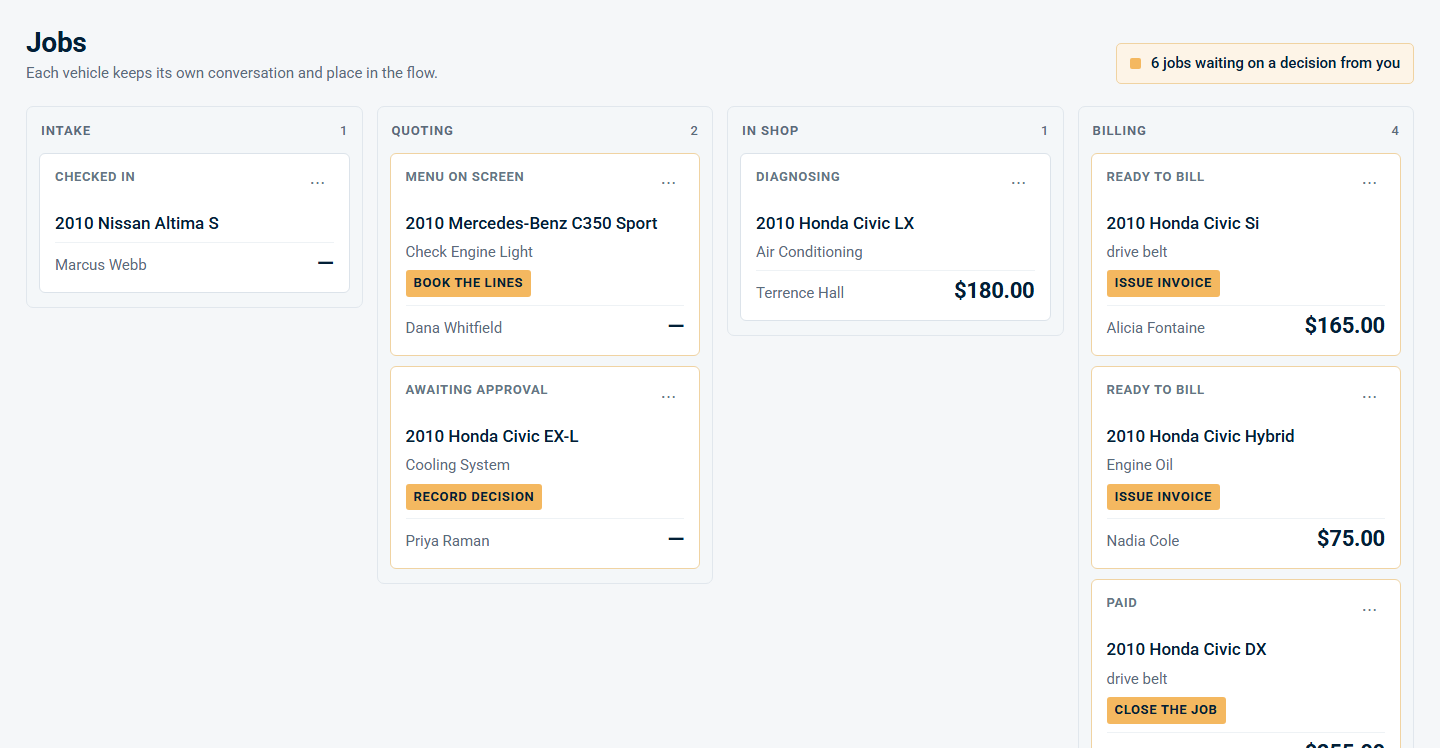
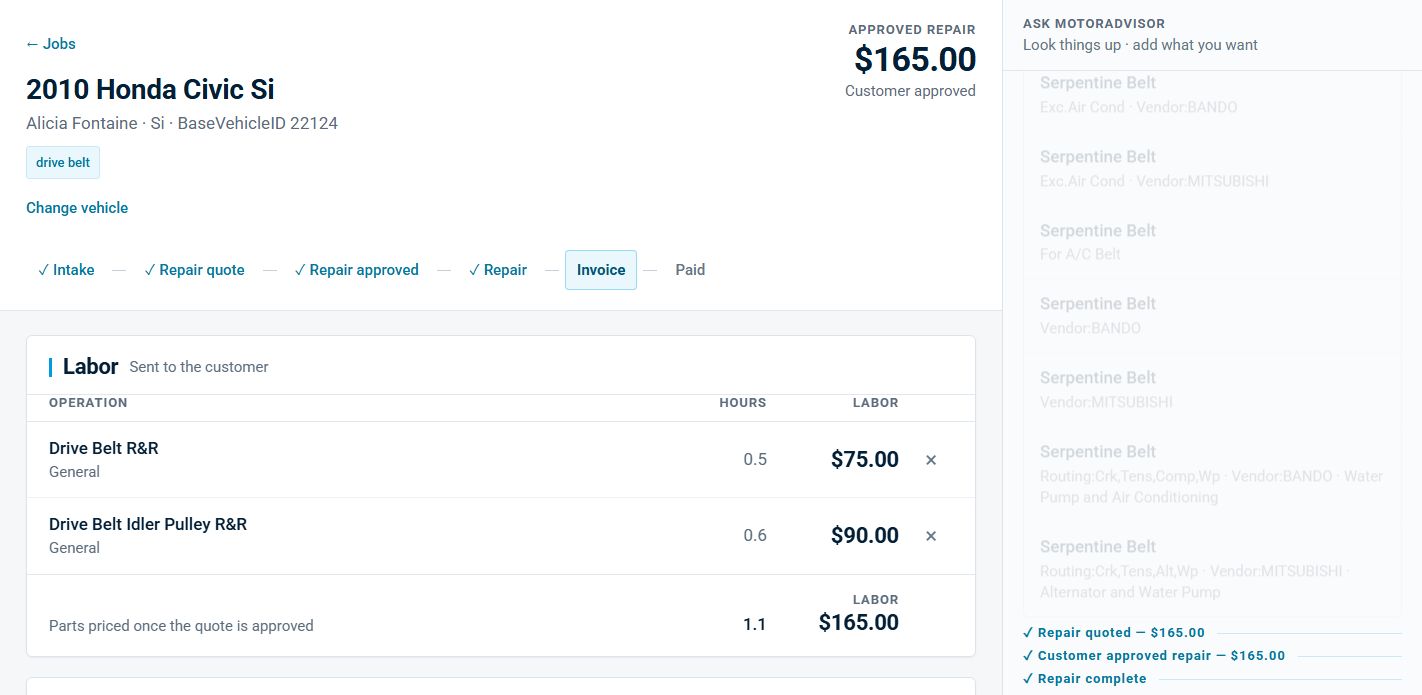
Fix the colliding wordmark, and show the workflow instead of the dashboard
Two corrections from review.

The MotorAdvisor lockup rendered "MOTOR" and "Advisor" on top of each other.
The product asset positions "Advisor" at a fixed x tuned for Roboto; on a
machine without Roboto, "MOTOR" renders about 14px wider and the two words
collide — measured at a 15px overlap. Both words now carry
textLength/lengthAdjust, so the advance width is pinned whatever font resolves.
Now a 9px gap, and it cannot drift again.

The screenshots were both inventory views. A board and a dashboard show that
the products have data in them; neither shows the thing that makes either one
worth building. Replaced with the workflow.

TopHand is now the cut recommendation for a field: the three gates, the quality
target in RFV, and the reasoning stated out loud — cut Thursday, or shed
roughly four RFV points a day waiting. That reasoning IS the product; the
Today screen only pointed at it. The frame also happens to show "Hear the
call", the text-to-speech that had been shipped and forgotten.

MotorAdvisor is now a work order: the conversation on the right, priced and
approved labor on the left, and the stage rail across the top. The board showed
jobs existing; this shows a question becoming a priced, approved repair, which
is the claim the card actually makes.

Both still come from the seeded demo tenants, and the MotorAdvisor frame is
still cropped above the valuation section, which names the provider in body
copy as well as in the app bar.

diff --git a/app/building/page.tsx b/app/building/page.tsx
@@ -358,8 +358,8 @@ export default async function BuildingPage() {
 
 
           <figure className="bl-shot">
-            <img src="/shots/tophand.png" alt="TopHand&rsquo;s Today screen: weather, a dry-window callout, and two fields flagged ready to cut" width={1440} height={820} loading="lazy" />
-            <figcaption>TopHand &mdash; the Today screen, from the seeded demo farm. The condition-gated callout is the product: two fields at target, and the rain-free window to act in.</figcaption>
+            <img src="/shots/tophand.png" alt="TopHand&rsquo;s cut recommendation: three gates, a quality target and the reasoning behind the call" width={1422} height={904} loading="lazy" />
+            <figcaption>TopHand &mdash; the call on a demo field. Three gates, a quality target in RFV, and the reasoning out loud: cut Thursday, or lose roughly four RFV points a day waiting.</figcaption>
           </figure>
           {/* Spec §8.3: the register sits under the product it describes.
               Two registers side by side ARE the "one operating model, two
@@ -453,8 +453,8 @@ export default async function BuildingPage() {
 
 
           <figure className="bl-shot">
-            <img src="/shots/motoradvisor.png" alt="MotorAdvisor&rsquo;s jobs board: intake, quoting, in shop and billing columns with priced jobs" width={1440} height={748} loading="lazy" />
-            <figcaption>MotorAdvisor &mdash; the jobs board, from the seeded demo shop. Each vehicle keeps its own conversation and its place in the flow, from intake through billing.</figcaption>
+            <img src="/shots/motoradvisor.png" alt="A MotorAdvisor work order: conversation on the right, priced and approved labor on the left" width={1422} height={695} loading="lazy" />
+            <figcaption>MotorAdvisor &mdash; one work order in the demo shop. The question is asked on the right and lands as priced, bookable labor on the left, with the stage it has reached across the top.</figcaption>
           </figure>
           {motoradvisor ? (
             <div className="bl-product-register">
